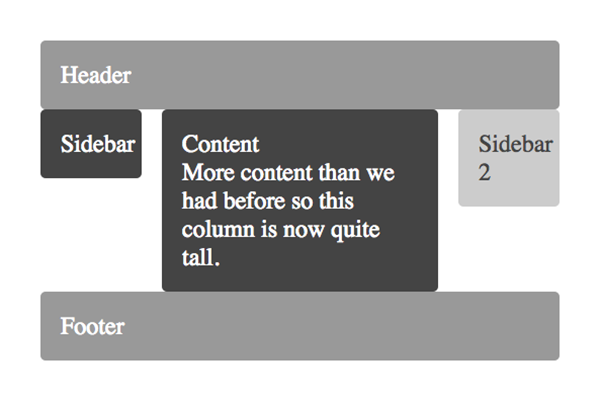
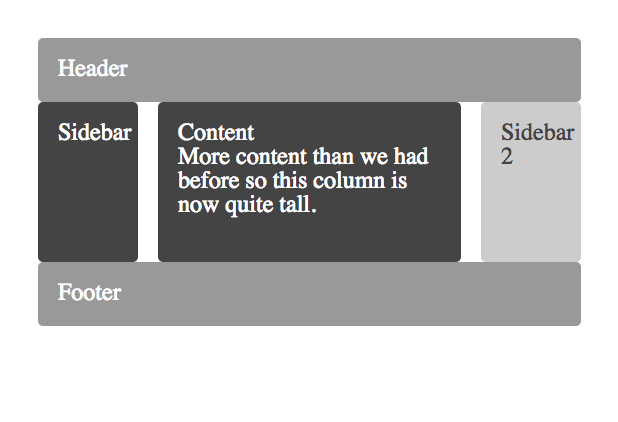
Updating images to match current Chrome implementation and adding some links

diff --git a/index.md b/index.md
@@ -20,6 +20,10 @@ The `auto` keyword is not as yet implemented in Chrome. I have added an example 
 
 [There is an excellent blog post](http://blogs.igalia.com/mrego/2014/12/30/css-grid-layout-2014-recap-specification-evolution/) from Manuel Rego Casasnovas, who works at Igalia and is involved in implementing Grid in Chrome and Blink. Read how the spec has evolved over 2014. 
 
+[A second post](http://blogs.igalia.com/mrego/2015/01/08/css-grid-layout-2014-recap-implementation-status/) from Manuel describes the current browser implementation status.
+
+In [Box Alignment and Grid Layout II](http://blogs.igalia.com/jfernandez/2015/01/12/box-alignment-and-grid-layout-ii/) Javier Fernández writes about the box alignment implementation. THis work meant I needed to redo many of the screenshots in my examples as `stretch` is now implemented.
+
 <div class="bg-info book">
 	<h3>CSS3 Layout Modules, 2nd Edition</h3>
 	<p>A lot of the examples here were my test examples as I researched Grid for my latest book - CSS3 Layout Modules, 2nd edition. If you are interested in modern layout for the web, <a href="http://rachelandrew.co.uk/books/css3-layout-modules/">take a look at the book</a>.</p>

diff --git a/examples/index.md b/examples/index.md
@@ -242,7 +242,7 @@ I will add to this list as I create tidy versions of some of the other tests I h
 
 <p>To create Grid Areas that are larger than individual cells we specify an end line that is more than one cell away.</p>
 
-<p>In this example I have set box `.b` to span all three rows of the grid however visually this is not the case. From <a href="http://lists.w3.org/Archives/Public/www-style/2014Aug/0364.html">discussion on the www-style list</a> I understand that by default the box should stretch to the full height even if the content does not force it to.</p>
+
 
 
 </div>
